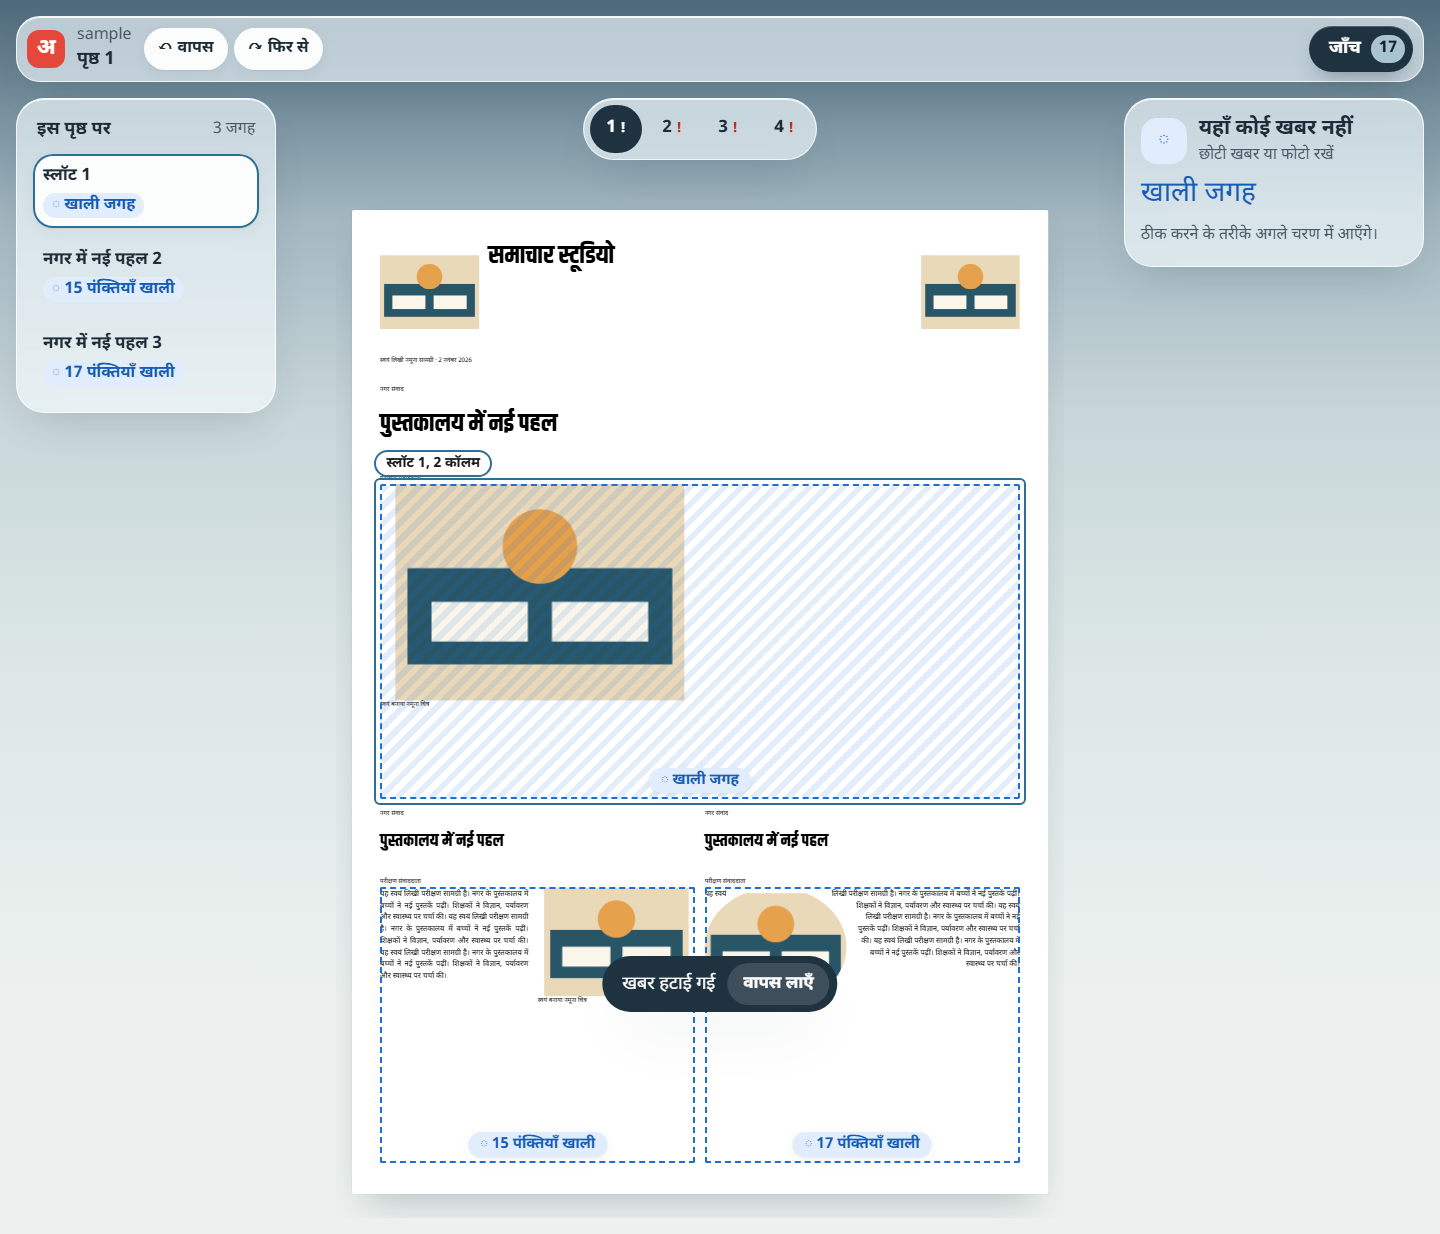
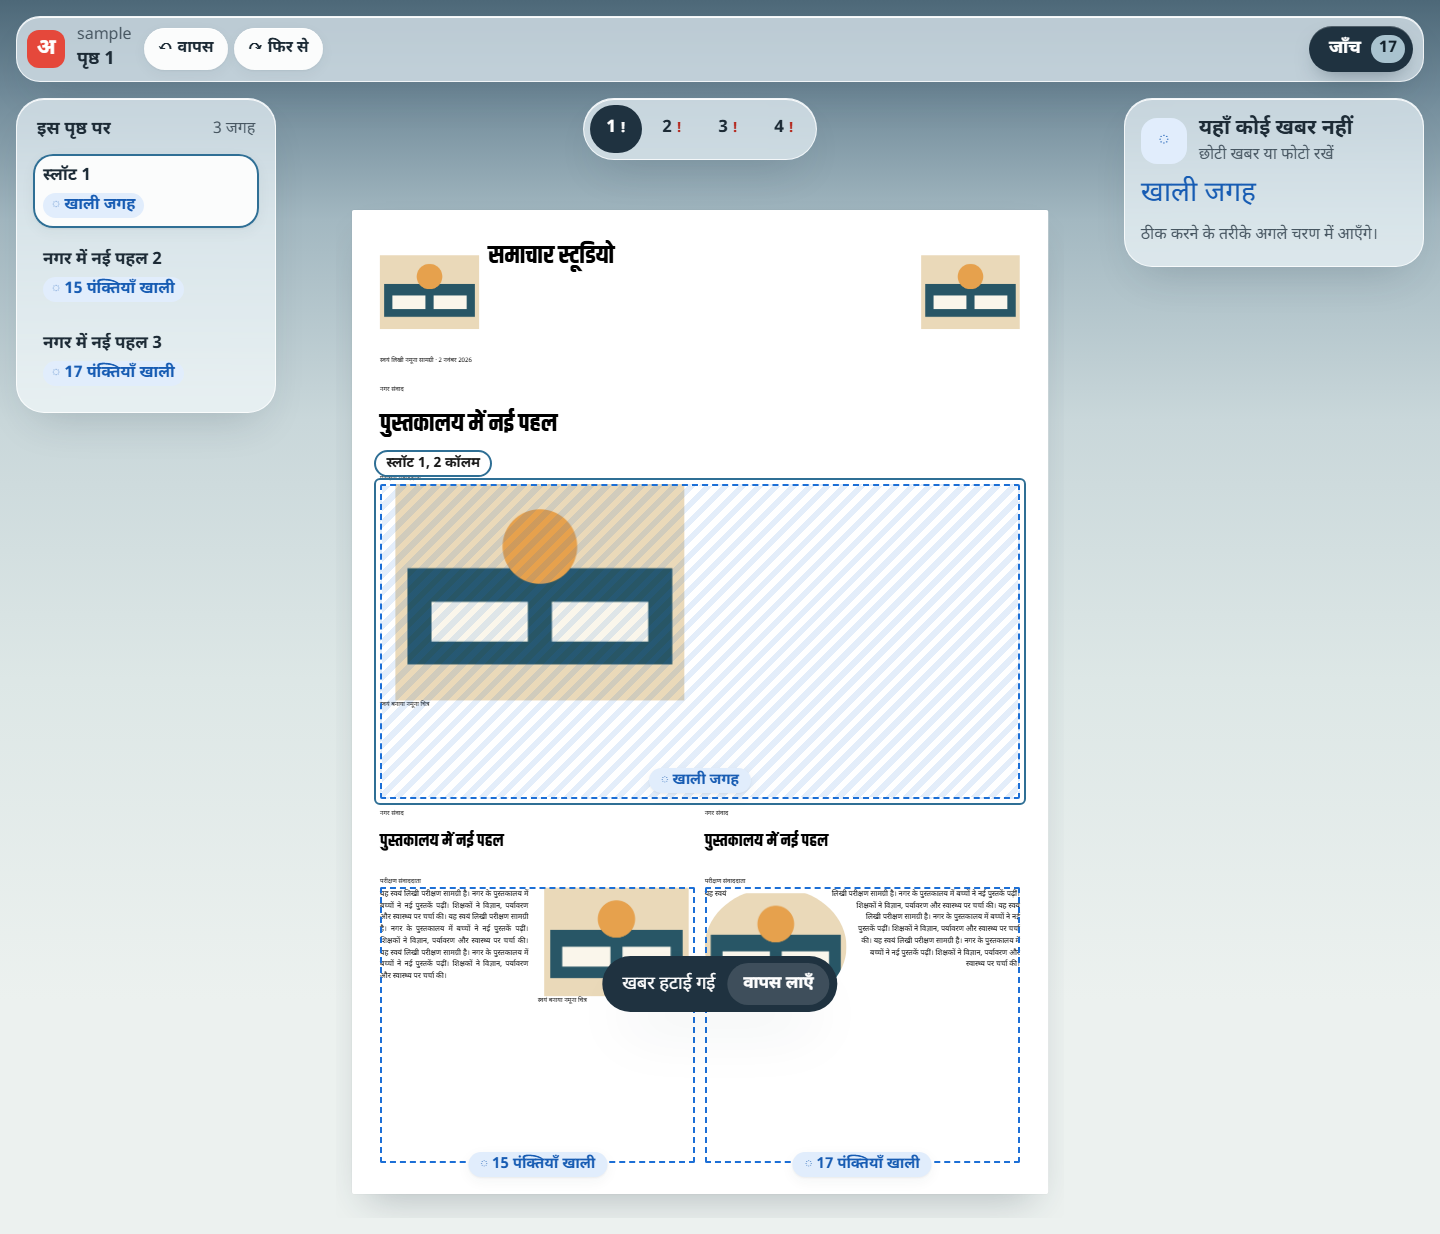
fix(app): fail on unloaded fonts and record editor risks
As export does, the editor now stops with an alert when a bundled font
face does not load, rather than measuring a fallback font that would break
lines unlike print (rule 3). The editor takes its problem list from the
engine's issueProblems. The blue empty pill sits below the slot so it no
longer covers body text. The T2 demo now says the export comparison was
done by eye. GATE_GAPS gets GG-083 (smoke check not in CI), GG-084
(history only in memory) and GG-085 (an emptied slot leaves an unplaced
story that export rejects).

Changed region(s): [[0.5312, 0.893, 0.6562, 0.9546], [0.3125, 0.893, 0.4375, 0.9546]]

diff --git a/demos/gate-gaps.html b/demos/gate-gaps.html
@@ -5,7 +5,7 @@ table{border-collapse:collapse;width:100%;background:#fff;font-size:14px}td,th{t
 .s{font-weight:600;font-size:12px;padding:2px 8px;border-radius:10px;color:#fff;white-space:nowrap}
 .open{background:#c62828}.accepted{background:#1a7f37}.deferred,.rejected{background:#8a8a8a}.d{color:#666;font-size:13px}</style></head>
 <body><p><a href="index.html">&larr; all demos</a></p>
-<h1>Gate gaps: 74 open of 82</h1>
+<h1>Gate gaps: 77 open of 85</h1>
 <p class="d">Risks no gate checks yet, from <code>docs/GATE_GAPS.md</code>. Proposals only: Amal decides which become gates. Rebuild with <code>node scripts/gate-gaps.mjs</code>. Measured numbers use an assumed grid (A3, 12 mm margins, 5 columns, 4 mm gutter, 9 pt body) until the printer's spec sheet arrives (GG-007).</p>
 <table><tr><th>ID</th><th>Risk</th><th>Failure on a real issue</th><th>Measure</th><th>Phase</th><th>Status</th><th>Source</th></tr>
 <tr><td>GG-001<div class="d">2026-10-29</div></td><td>Justified Hindi body text gets wide word spaces (greedy line breaking, no hyphenation)</td><td>Body columns show rivers and 5x-wide gaps; the paper looks amateur next to a QuarkXPress-set competitor</td><td class="d">Word-space stretch per justified line. Measured 2026-10-29, A3 5 columns 9 pt: 95th pct 2.94x, worst 5.67x. Proposed G0.justify: 95th pct &lt;= 3.0, worst &lt;= 6.0</td><td>0</td><td><span class="s open">open</span></td><td class="d">phase review (gate-review 2026-10-29)</td></tr>
@@ -90,4 +90,7 @@ table{border-collapse:collapse;width:100%;background:#fff;font-size:14px}td,th{t
 <tr><td>GG-080<div class="d">2026-11-03</div></td><td>Export tests pass locally but fail on CI, which runs `npm test` before installing Chromium and has no Ghostscript or `.local/export-python` (pikepdf)</td><td>Push goes red; or a CI setup that silently lacks the export tools hides a real export regression</td><td class="d">CI run 41683897058 (da65e93): 8 failures, `colour`, `export`, `golden` and `render` tests stopped after one test each. Reproduced in Linux containers (D-074): first error `Cannot find module 'esbuild'` / `'@napi-rs/canvas'` (loaded from `spike/node_modules`; canvas is undeclared, arriving via `pdfjs-dist`), then missing Chromium, Ghostscript and python/pikepdf. Workflow now installs all four before `npm test`. Remaining risk: `@napi-rs/canvas` is an undeclared transitive dependency, and CI Ghostscript (10.02.1) differs from local (10.04.0)</td><td>1</td><td><span class="s open — workflow fixed, awaiting green CI run">open — workflow fixed, awaiting green CI run</span></td><td class="d">bug</td></tr>
 <tr><td>GG-081<div class="d">2026-11-07</div></td><td>The protect-gates hook blocks a shell command whose text merely mentions a test file path (here, a heredoc writing a demo page that named the marks test)</td><td>Legitimate demo or doc writes are stopped mid-task. Builders learn to avoid naming tests, so the reports get vaguer</td><td class="d">A hook test that feeds a shell write to `demos/*.html` whose content names a `*.test.js` path and expects it to pass, plus a real shell write to a test that it expects to block. For now, demos are written with the Write tool (Amal, quiz 2026-11-07)</td><td>3</td><td><span class="s open">open</span></td><td class="d">task</td></tr>
 <tr><td>GG-082<div class="d">2026-11-07</div></td><td>The editor (apps/studio, from T2) and export could turn a slot into text differently: headline and body split, defaults, obstacles</td><td>The operator sees a slot as full on screen, but the press PDF overflows or is short. The fit marks agree with auto-page but not with print</td><td class="d">Today both call engine `measure()`/`flow()`, and render-browser.js says its defaults match autopage.js. Proposed gate: for each golden page, the per-frame line count from `pageMarks` equals the count export's page report gives (`report.lines` grouped by story)</td><td>3</td><td><span class="s open">open</span></td><td class="d">task</td></tr>
+<tr><td>GG-083<div class="d">2026-11-07</div></td><td>The Studio app smoke check (`node scripts/smoke-studio.mjs`) runs in neither `npm test` nor CI</td><td>A later change breaks the editor: no lines drawn, a console error, two primary buttons, a percentage shown, an axe finding, or a broken check queue or undo. Nothing fails until someone opens the app</td><td class="d">Proposed gate: run the smoke check in CI after `npm test` (it needs Chromium, which CI already installs) and fail on SMOKE FAIL. Ranked 1 of 3 for the editor slice</td><td>3</td><td><span class="s open">open</span></td><td class="d">task</td></tr>
+<tr><td>GG-084<div class="d">2026-11-07</div></td><td>Editor history lives only in memory: a reload or crash loses every change (UX_SPEC §2.5, &quot;nothing is ever lost&quot;)</td><td>An operator spends 30 minutes fixing pages, the tab reloads, and the work is gone</td><td class="d">Next slice: save the op log to the local store after each op, with a save status (&quot;सहेजा गया ✓&quot;), and reopen at the saved version. Gate: the smoke check reloads after a change and finds it still there. Ranked 2 of 3</td><td>3</td><td><span class="s open">open</span></td><td class="d">task</td></tr>
+<tr><td>GG-085<div class="d">2026-11-07</div></td><td>&quot;स्लॉट खाली करें&quot; leaves an unplaced story, and export's `prepare()` rejects an issue with any unplaced story</td><td>The operator empties a slot, forgets it, and the press PDF fails at deadline with an English error</td><td class="d">Until the &quot;बिना जगह&quot; list exists: count unplaced stories in the &quot;जाँच&quot; queue and name them before &quot;प्रेस PDF बनाएँ&quot; is offered. Gate: a seeded issue with an unplaced story shows it in the queue. Ranked 3 of 3</td><td>3</td><td><span class="s open">open</span></td><td class="d">task</td></tr>
 </table></body></html>

diff --git a/demos/index.html b/demos/index.html
@@ -7,14 +7,14 @@ table{border-collapse:collapse;width:100%;background:#fff}td,th{text-align:left;
 .warn{background:#fff3cd;border:1px solid #e0b100;padding:8px 12px}</style></head>
 <body><h1>Studio demos</h1>
 <p class="warn">Gate numbers use an ASSUMED grid (A3, 12 mm margins, 5 columns, 4 mm gutter, 9 pt body) until the printer's spec sheet arrives (GG-007).</p>
-<p class="d">Gates from <code>node harness/run.mjs --fast</code>, 2026-11-07 13:44 UTC. Rebuild with <code>npm run demos</code> (add <code>-- --full</code> to run the slow parity gate).</p>
+<p class="d">Gates from <code>node harness/run.mjs --fast</code>, 2026-11-07 13:48 UTC. Rebuild with <code>npm run demos</code> (add <code>-- --full</code> to run the slow parity gate).</p>
 
 <h2>Gates</h2>
 <table><tr><th>Gate</th><th>Phase</th><th>Status</th><th>What it checks</th><th>Result</th></tr>
 <tr><td>G0.parity</td><td>0</td><td><span class="s SKIP">SKIP</span></td><td>Line-break parity vs real DOM on real Hindi copy, launch body fonts (fonts.json launch:true, role text/text-serif), percent</td><td class="d">slow gate skipped by --fast</td></tr>
 <tr><td>G0.guard</td><td>0</td><td><span class="s PASS">PASS</span></td><td>Repo guardrail tests failing (brand name, licences)</td><td class="d">0 (need &lt;= 0)</td></tr>
 <tr><td>G0.flow</td><td>0</td><td><span class="s PASS">PASS</span></td><td>flow() tests passing: the 12 contract tests in conservation.test.js plus at least 5 of your own in flow*.test.js, none skipped</td><td class="d">27 (need &gt;= 17)</td></tr>
-<tr><td>G0.speed</td><td>0</td><td><span class="s PASS">PASS</span></td><td>flow() on a full A3 page (5 columns, 2 photos, 416 lines of real copy), median ms over 20 runs after 5 warm-up, headless Chromium</td><td class="d">12.3 (need &lt;= 30)</td></tr>
+<tr><td>G0.speed</td><td>0</td><td><span class="s PASS">PASS</span></td><td>flow() on a full A3 page (5 columns, 2 photos, 416 lines of real copy), median ms over 20 runs after 5 warm-up, headless Chromium</td><td class="d">7.9 (need &lt;= 30)</td></tr>
 <tr><td>G0.pdfpos</td><td>0</td><td><span class="s PASS">PASS</span></td><td>Exported PDF matches flow(): max left-edge error in pt over every line, by raster (GG-042), plus baseline, justified right edge, font embedding and a mutation check</td><td class="d">0.009 (need &lt;= 0.1)</td></tr>
 <tr><td>G0.headline</td><td>0</td><td><span class="s SKIP">SKIP</span></td><td>Line-break parity on bold headline sizes (weight 700, 18/24/30/36 px, 1-4 columns of the assumed A3 grid), launch fonts with role headline, text or text-serif (fonts.json launch:true; body fonts set subheads and kickers), real Janshakti headlines, percent</td><td class="d">slow gate skipped by --fast</td></tr>
 <tr><td>G0.black</td><td>0</td><td><span class="s PASS">PASS</span></td><td>Experiment E2: text and rules land on the K plate only in the chosen export route (1 = yes, hand-recorded)</td><td class="d">1 (need &gt;= 1)</td></tr>
@@ -39,7 +39,7 @@ table{border-collapse:collapse;width:100%;background:#fff}td,th{text-align:left;
 <tr><td>G4.a11y</td><td>5</td><td><span class="s PENDING">PENDING</span></td><td>Serious axe violations on editor routes (count)</td><td class="d"></td></tr>
 <tr><td>GX.dragms</td><td>5</td><td><span class="s PENDING">PENDING</span></td><td>Drag re-layout ms per frame, 3-column story</td><td class="d"></td></tr>
 </table>
-<p><a href="gate-gaps.html"><b>74 open gate gaps</b></a> <span class="d">(risks no gate checks yet, from <code>docs/GATE_GAPS.md</code>)</span></p>
+<p><a href="gate-gaps.html"><b>77 open gate gaps</b></a> <span class="d">(risks no gate checks yet, from <code>docs/GATE_GAPS.md</code>)</span></p>
 <h2>Tasks</h2>
 <table><tr><th>Date</th><th>Task</th><th>What changed</th></tr>
 <tr><td>2026-11-07</td><td><a href="studio-undo.html">Editor slice T4: undo and redo</a></td><td>Editor changes run on the engine history; undo and redo buttons with words, Ctrl Z/Y, and an 8 s toast with वापस लाएँ. First change: empty a slot.</td></tr>

diff --git a/apps/studio/components/Editor.js b/apps/studio/components/Editor.js
@@ -1,7 +1,7 @@
 'use client'
 import { useEffect, useMemo, useRef, useState } from 'react'
 import { pageLayout } from '@studio/engine/src/layout.js'
-import { pageMarks } from '@studio/engine/src/marks.js'
+import { pageMarks, issueProblems } from '@studio/engine/src/marks.js'
 import { startHistory, run, undo, redo } from '@studio/engine/src/ops.js'
 import { markWords, markTitle, nextProblem, pageStatus, describeOp } from '@studio/ui'
 import PageView from './PageView.js'
@@ -30,7 +30,8 @@ export default function Editor({ doc: initial, inks }) {
 
   useEffect(() => {
     let live = true
-    Promise.all(fontsOf(initial).map(f => document.fonts.load(f, SAMPLE)))
+    // As export: a face that does not load is fatal, or the engine would measure a fallback font and break lines unlike print.
+    Promise.all(fontsOf(initial).map(async f => { if (!(await document.fonts.load(f, SAMPLE)).length) throw new Error(`फ़ॉन्ट नहीं मिला: ${f}`) }))
       .then(() => live && setReady(true)).catch(e => live && setError(e.message))
     return () => { live = false }
   }, [initial])
@@ -54,7 +55,7 @@ export default function Editor({ doc: initial, inks }) {
 
   const marksByPage = useMemo(() => ready ? Object.fromEntries(doc.pages.map(p => [p.id, pageMarks(doc, p.id)])) : null, [ready, doc])
   const layout = useMemo(() => ready ? pageLayout(doc, pageId, { inks }) : null, [ready, doc, pageId, inks])
-  const problems = useMemo(() => marksByPage ? doc.pages.flatMap(p => marksByPage[p.id].filter(m => m.state !== 'ok').map(m => ({ pageId: p.id, ...m }))) : [], [marksByPage, doc])
+  const problems = useMemo(() => ready ? issueProblems(doc) : [], [ready, doc])
   const page = doc.pages.find(p => p.id === pageId)
   const headlineOf = id => doc.stories.find(s => s.id === id)?.headline ?? id
   const mark = selected && marksByPage?.[pageId].find(m => m.frameId === selected)

diff --git a/demos/studio-editor.html b/demos/studio-editor.html
@@ -15,6 +15,6 @@ table{width:100%;border-collapse:collapse;background:#fff;border:1px solid #d9e1
 <table><tr><th>Check</th><th>Result</th></tr>
 <tr><td>Engine layout unit test</td><td>9 passed: body lines equal flow(); overflow does not throw; last line not justified; empty slot kept; headlines from layoutHeadline; photos, rules and shape outlines passed through; missing ink fails loudly; no mutation</td></tr>
 <tr><td><code>node scripts/smoke-studio.mjs</code></td><td>SMOKE PASS: 40 lines drawn, 0 wider than their box, 0 console errors</td></tr>
-<tr><td>Side by side</td><td>Same line breaks as export on every story. The shaped photo is clipped to its outline as in export.</td></tr></table>
+<tr><td>Side by side</td><td>Compared by eye with the export golden: the line breaks look the same on every story, and the shaped photo is clipped to its outline as in export. This is not a measured check; GG-082 proposes the real one, a per-frame line count that must equal export's report.</td></tr></table>
 <p>Not yet: fit marks, page strip, selection (T3); undo and redo controls (T4). The page baselines use ink metrics from <code>fonts/ink.json</code>; export measures ink per line, so a fraction of a pixel of vertical difference is possible (GG-082).</p>
 </main></body></html>

diff --git a/apps/studio/components/Marks.js b/apps/studio/components/Marks.js
@@ -20,7 +20,7 @@ export default function Marks({ layout, marks, scale, selected, onSelect, headli
           border: L.dashed ? '2px dashed var(--info)' : 'none',
           background: L.hatch ? 'repeating-linear-gradient(135deg, rgba(28,111,214,0.12) 0 6px, rgba(28,111,214,0) 6px 12px)' : 'transparent' }} />}
         {mark.state !== 'ok' && (
-          <span data-mark={mark.state} style={{ position: 'absolute', left: '50%', bottom: mark.state === 'over' ? -14 : 6, transform: 'translateX(-50%)',
+          <span data-mark={mark.state} style={{ position: 'absolute', left: '50%', bottom: mark.state === 'unfilled' ? 6 : -14, transform: 'translateX(-50%)',
             whiteSpace: 'nowrap', padding: '1px 12px', borderRadius: 999, background: L.pillBg, color: L.pillFg, fontSize: 15, lineHeight: '23px',
             fontWeight: 600, boxShadow: 'var(--shadow-1)', pointerEvents: 'none', zIndex: 2 }}>
             <span aria-hidden="true">{L.icon} </span>{words}

diff --git a/docs/GATE_GAPS.md b/docs/GATE_GAPS.md
@@ -95,3 +95,6 @@ Columns: **Failure** must say what goes wrong on a real issue, not in the abstra
 | GG-080 | 2026-11-03 | Export tests pass locally but fail on CI, which runs `npm test` before installing Chromium and has no Ghostscript or `.local/export-python` (pikepdf) | Push goes red; or a CI setup that silently lacks the export tools hides a real export regression | CI run 41683897058 (da65e93): 8 failures, `colour`, `export`, `golden` and `render` tests stopped after one test each. Reproduced in Linux containers (D-074): first error `Cannot find module 'esbuild'` / `'@napi-rs/canvas'` (loaded from `spike/node_modules`; canvas is undeclared, arriving via `pdfjs-dist`), then missing Chromium, Ghostscript and python/pikepdf. Workflow now installs all four before `npm test`. Remaining risk: `@napi-rs/canvas` is an undeclared transitive dependency, and CI Ghostscript (10.02.1) differs from local (10.04.0) | 1 | open — workflow fixed, awaiting green CI run | bug |
 | GG-081 | 2026-11-07 | The protect-gates hook blocks a shell command whose text merely mentions a test file path (here, a heredoc writing a demo page that named the marks test) | Legitimate demo or doc writes are stopped mid-task. Builders learn to avoid naming tests, so the reports get vaguer | A hook test that feeds a shell write to `demos/*.html` whose content names a `*.test.js` path and expects it to pass, plus a real shell write to a test that it expects to block. For now, demos are written with the Write tool (Amal, quiz 2026-11-07) | 3 | open | task |
 | GG-082 | 2026-11-07 | The editor (apps/studio, from T2) and export could turn a slot into text differently: headline and body split, defaults, obstacles | The operator sees a slot as full on screen, but the press PDF overflows or is short. The fit marks agree with auto-page but not with print | Today both call engine `measure()`/`flow()`, and render-browser.js says its defaults match autopage.js. Proposed gate: for each golden page, the per-frame line count from `pageMarks` equals the count export's page report gives (`report.lines` grouped by story) | 3 | open | task |
+| GG-083 | 2026-11-07 | The Studio app smoke check (`node scripts/smoke-studio.mjs`) runs in neither `npm test` nor CI | A later change breaks the editor: no lines drawn, a console error, two primary buttons, a percentage shown, an axe finding, or a broken check queue or undo. Nothing fails until someone opens the app | Proposed gate: run the smoke check in CI after `npm test` (it needs Chromium, which CI already installs) and fail on SMOKE FAIL. Ranked 1 of 3 for the editor slice | 3 | open | task |
+| GG-084 | 2026-11-07 | Editor history lives only in memory: a reload or crash loses every change (UX_SPEC §2.5, "nothing is ever lost") | An operator spends 30 minutes fixing pages, the tab reloads, and the work is gone | Next slice: save the op log to the local store after each op, with a save status ("सहेजा गया ✓"), and reopen at the saved version. Gate: the smoke check reloads after a change and finds it still there. Ranked 2 of 3 | 3 | open | task |
+| GG-085 | 2026-11-07 | "स्लॉट खाली करें" leaves an unplaced story, and export's `prepare()` rejects an issue with any unplaced story | The operator empties a slot, forgets it, and the press PDF fails at deadline with an English error | Until the "बिना जगह" list exists: count unplaced stories in the "जाँच" queue and name them before "प्रेस PDF बनाएँ" is offered. Gate: a seeded issue with an unplaced story shows it in the queue. Ranked 3 of 3 | 3 | open | task |
